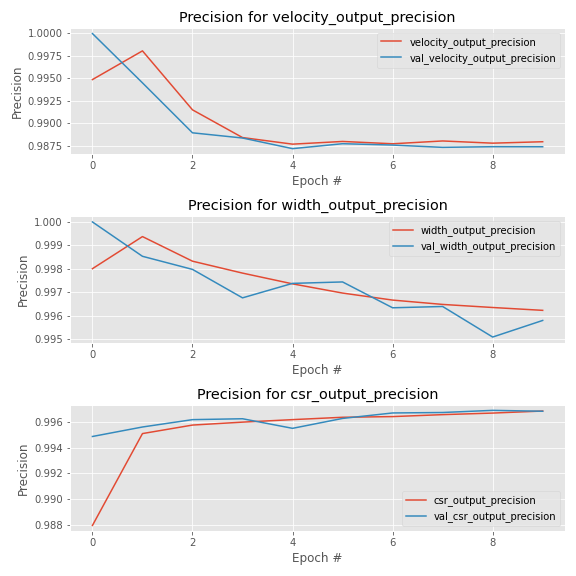
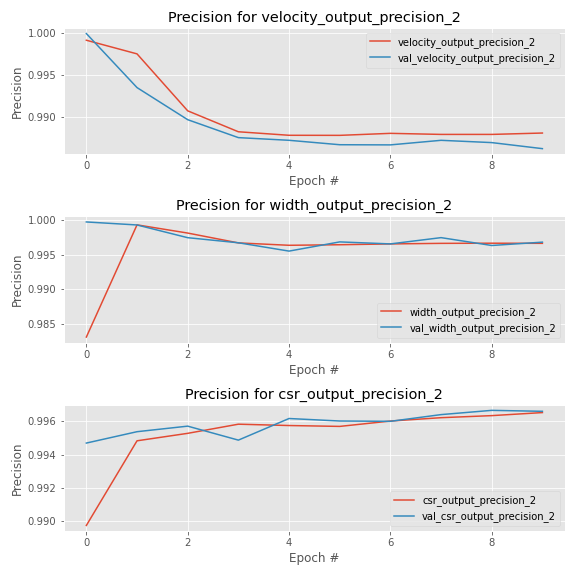
I fixed one bug in the data generation for trining. Also, I am working on the experiment added before about varying the csr

diff --git a/machine_learning_scripts/RadarNet.py b/machine_learning_scripts/RadarNet.py
@@ -17,6 +17,8 @@ from tensorflow.keras.optimizers import Adam
 from tensorflow.keras.callbacks import EarlyStopping
 import tensorflow as tf
 
+
+
     #################Conv1D architecture##################################
     
 def build_conv1D_velocity_branch(inputs, numCategories, finalAct = 'softmax'):
@@ -83,7 +85,7 @@ def model_compile_and_train(device, model, X_train, y_train_cat_vel, y_train_cat
     with tf.device(device):
         #compiling the model
         opt = Adam(lr=1e-4) 
-        EPOCHS = 10
+        EPOCHS = 3
         BS = 512
     
         losses = {"velocity_output":"categorical_crossentropy","width_output":"categorical_crossentropy", "csr_output":"categorical_crossentropy"}
@@ -108,6 +110,8 @@ def model_compile_and_train(device, model, X_train, y_train_cat_vel, y_train_cat
                       callbacks=[custom_early_stopping])
                   
         end = time.time()
+        # Saving the model
+        model.save(device[1:4]  + '_' + str(EPOCHS) + '_' + str(BS)  + 'model.h5')
         elapsed_time = end - start
         print('The trainig time was {} seconds'.format(elapsed_time))    
         return H
@@ -168,57 +172,94 @@ def plot_training( H, directory):
     plt.savefig(directory  + "{}_accs.png".format('train_and_validate'))
     plt.show()
 
-#create a new figure for the Precision
-    precisionNames = ["velocity_output_precision", "width_output_precision", "csr_output_precision"]
-    plt.style.use("ggplot")
-    (fig, ax) = plt.subplots(3, 1, figsize=(8, 8))
+# #create a new figure for the Precision
+#     precisionNames = ["velocity_output_precision_2", "width_output_precision_2", "csr_output_precision_2"]
+#     plt.style.use("ggplot")
+#     (fig, ax) = plt.subplots(3, 1, figsize=(8, 8))
      
-    Precision_t_vector = []
-    Precision_v_vector = []
-    # loop over the accuracy names
-    for (i, l) in enumerate(precisionNames):
+#     Precision_t_vector = []
+#     Precision_v_vector = []
+#     # loop over the accuracy names
+#     for (i, l) in enumerate(precisionNames):
         
-     	# plot the loss for both the training and validation data
-        ax[i].set_title("Precision for {}".format(l))
-        ax[i].set_xlabel("Epoch #")
-        ax[i].set_ylabel("Precision")
-        ax[i].plot(np.arange(0, EPOCHS), H.history[l], label=l)
-        ax[i].plot(np.arange(0, EPOCHS), H.history["val_" + l], label="val_" + l)
-        ax[i].legend()
-        Precision_t_vector.append(H.history[l])
-        Precision_v_vector.append(H.history["val_" + l])
+#      	# plot the loss for both the training and validation data
+#         ax[i].set_title("Precision for {}".format(l))
+#         ax[i].set_xlabel("Epoch #")
+#         ax[i].set_ylabel("Precision")
+#         ax[i].plot(np.arange(0, EPOCHS), H.history[l], label=l)
+#         ax[i].plot(np.arange(0, EPOCHS), H.history["val_" + l], label="val_" + l)
+#         ax[i].legend()
+#         Precision_t_vector.append(H.history[l])
+#         Precision_v_vector.append(H.history["val_" + l])
      
-    # save the accuracies figure
-    plt.tight_layout()
-    plt.savefig(directory + "{}_precision.png".format('train_and_validate'))
-    plt.show()
-# create a new figure for the Recall
-    recallNames = ["velocity_output_recall", "width_output_recall", "csr_output_recall"]
-    plt.style.use("ggplot")
-    (fig, ax) = plt.subplots(3, 1, figsize=(8, 8))
+#     # save the accuracies figure
+#     plt.tight_layout()
+#     plt.savefig(directory + "{}_precision.png".format('train_and_validate'))
+#     plt.show()
+# # create a new figure for the Recall
+#     recallNames = ["velocity_output_recall_2", "width_output_recall_2", "csr_output_recall_2"]
+#     plt.style.use("ggplot")
+#     (fig, ax) = plt.subplots(3, 1, figsize=(8, 8))
      
-    Recall_t_vector = []
-    Recall_v_vector = []
-    # loop over the accuracy names
-    for (i, l) in enumerate(recallNames):
+#     Recall_t_vector = []
+#     Recall_v_vector = []
+#     # loop over the accuracy names
+#     for (i, l) in enumerate(recallNames):
         
-     	# plot the loss for both the training and validation data
-        ax[i].set_title("Recall for {}".format(l))
-        ax[i].set_xlabel("Epoch #")
-        ax[i].set_ylabel("Recall")
-        ax[i].plot(np.arange(0, EPOCHS), H.history[l], label=l)
-        ax[i].plot(np.arange(0, EPOCHS), H.history["val_" + l], label="val_" + l)
-        ax[i].legend()
-        Recall_t_vector.append(H.history[l])
-        Recall_v_vector.append(H.history["val_" + l])
+#      	# plot the loss for both the training and validation data
+#         ax[i].set_title("Recall for {}".format(l))
+#         ax[i].set_xlabel("Epoch #")
+#         ax[i].set_ylabel("Recall")
+#         ax[i].plot(np.arange(0, EPOCHS), H.history[l], label=l)
+#         ax[i].plot(np.arange(0, EPOCHS), H.history["val_" + l], label="val_" + l)
+#         ax[i].legend()
+#         Recall_t_vector.append(H.history[l])
+#         Recall_v_vector.append(H.history["val_" + l])
      
-    # save the accuracies figure
-    plt.tight_layout()
-    plt.savefig(directory + "{}_recall.png".format('train_and_validate'))    
-    plt.show()
+#     # save the accuracies figure
+#     plt.tight_layout()
+#     plt.savefig(directory + "{}_recall.png".format('train_and_validate'))    
+#     plt.show()
     
     #save training and validation loss and accuracy
     # pd.DataFrame( Loss_t_vector).to_csv(directory +'Losstraining' + '.csv')
     # pd.DataFrame( Loss_v_vector).to_csv(directory+'Lossvalidation' + '.csv')
     # pd.DataFrame( Accuracy_t_vector).to_csv(directory+'Accuracytraining' + '.csv')
     # pd.DataFrame( Accuracy_v_vector).to_csv(directory+'Accuracyvalidation' + '.csv')
+    
+def prediction(model, data_PSD, device = 'CPU:/0'):
+    """
+
+    
+    """
+    with tf.device(device):
+        
+        (y_pred_vel, y_pred_sw, y_pred_csr) = model.predict(data_PSD)
+        y_pred_vel = np.argmax(y_pred_vel, axis = 1)
+        y_pred_sw = np.argmax(y_pred_sw, axis = 1)
+        y_pred_csr = np.argmax(y_pred_csr, axis = 1)
+        
+        return y_pred_vel, y_pred_sw, y_pred_csr
+    
+
+
+
+
+
+
+
+
+
+    
+    
+    
+
+
+
+
+
+
+
+
+
+    

diff --git a/varying_the_csr.py b/varying_the_csr.py
@@ -5,12 +5,25 @@ Created on Sun Oct 24 17:24:33 2021
 
 @author: Arturo Collado Rosell
 
-This script is for reproduce one of the experiment of the original paper, the one varying 
+This script is to reproduce one of the experiment of the original paper, the one varying 
 the CSR
 
 """
+import sys
+# insert at 1, 0 is the script path (or '' in REPL)
+sys.path.insert(1, 'machine_learning_scripts/')
+import matplotlib.pyplot as plt
+import RadarNet 
+
 import numpy as np
+import tensorflow as tf
 import synthetic_weather_data_IQ
+
+from tensorflow.compat.v1 import ConfigProto
+from tensorflow.compat.v1 import InteractiveSession 
+config = ConfigProto()
+config.gpu_options.allow_growth = True
+session = InteractiveSession(config=config)
 
 Tu = 0.25e-3
 PRF = 1/Tu
@@ -23,7 +36,7 @@ va = wavelenght*PRF/4
 Sp = 1
 vm = [0.2*va, 0.4*va]
 spectral_w = [3, 5]
-csr = np.linspace(0, 50, 10)
+csr = np.linspace(0, 50, 25)
 Sc = Sp * 10**(csr/10)
 
 radar_mode = 'staggered'
@@ -37,7 +50,7 @@ I = 1
 w =  theta_3dB_acimut * np.pi/180.0 / (M * sum(int_stagg)/len(int_stagg)* Tu)
 clutter_spectral_width = w*wavelenght * np.sqrt(np.log(2.0)) / (2.0 * np.pi * theta_3dB_acimut* np.pi/180.0) # [m/s]
 
-# clutter_power: power of clutter [times]
+#         clutter_power: power of clutter [times]
 #         clutter_s_w : clutter spectrum width [m/s] 
 #         phenom_power: power of phenom [times] 
 #         phenom_vm: phenom mean Doppler velocity [m/s]
@@ -66,6 +79,8 @@ parameters_with_clutter = {    'clutter_s_w': clutter_spectral_width,
 num_samples_uniform = round((M - 1)* sum(int_stagg)/len(int_stagg)) + 1
 window = np.kaiser(num_samples_uniform, 8)
 
+
+###########Data generation#####################################
 L = 1000 # Monte Carlo realization
 N_vel = len(vm)
 N_Sc = len(Sc)
@@ -91,7 +106,52 @@ for i in range(N_vel):
                 psd = psd /np.max(psd)
                 data_PSD[i*N_Sc*N_sw*L + q*N_sw*L + j*L + ind_l,:] = 10*np.log10(psd[0,:])
                 
+################################################################                
                 
-                
-                
+#predictions using the NN
+model = tf.keras.models.load_model('GPU_3_512model.h5')
+vel_pred, sw_pred, csr_pred = RadarNet.prediction(model, data_PSD, device = '/GPU:0')                
+
+try:
+    meta_params = np.load('some_params_to_train.npy')
+    N_vel_grid = int(meta_params[0])
+    N_s_w_grid = int(meta_params[1])
+    N_csr_grid = int(meta_params[2])
+except Exception as e:
+    print(e)  
     
+# Clutter power grid
+csr_g = np.linspace(0, 50, N_csr_grid-1)
+Sc_grid =  Sp * 10.0**(csr_g/10)
+# spectral width grid
+s_width_grid = np.linspace(0.04, 0.2, N_s_w_grid) * va
+# velocity grid
+vel_step = 2.0/N_vel_grid * va
+vel_grid = -np.arange(-va + vel_step/2.0, va , vel_step)    
+
+
+vel_pred = vel_grid[vel_pred]
+sw_pred = s_width_grid[sw_pred] 
+
+vel_NN = np.zeros((N_sw, N_Sc, N_vel))
+std_vel_NN = np.zeros((N_sw, N_Sc, N_vel))
+sw_NN = np.zeros((N_sw, N_Sc, N_vel))
+std_sw_NN = np.zeros((N_sw, N_Sc, N_vel))
+   
+for i in range(N_vel):
+    for q in range(N_Sc):
+        for j in range(N_sw):
+            batch_vel = vel_pred[i*N_Sc*N_sw*L + q*N_sw*L + j*L: i*N_Sc*N_sw*L + q*N_sw*L + (j+1)*L]
+            batch_sw = sw_pred[i*N_Sc*N_sw*L + q*N_sw*L + j*L: i*N_Sc*N_sw*L + q*N_sw*L + (j+1)*L]
+            
+            vel_NN[j,q,i] = np.mean(batch_vel)
+            std_vel_NN[j,q,i] = np.std(batch_vel)
+            sw_NN[j,q,i] = np.mean(batch_sw)
+            std_sw_NN[j,q,i] = np.std(batch_sw)
+            
+###Ploting the results
+fig, ax = plt.subplots()
+ax.plot(csr, vel_NN[0,:,0] - vm[0]*np.ones((N_Sc,)) )
+ax.grid()
+plt.show()
+            

diff --git a/synthetic_weather_data_IQ.py b/synthetic_weather_data_IQ.py
@@ -352,7 +352,7 @@ def synthetic_data_train(M, Fc, Tu = 0.25e-3, theta_3dB_acimut = 1, radar_mode =
     ######### signal parameters intervals ################################## 
     # Clutter power grid
     csr = np.linspace(csr_min, csr_max, N_csr-1)
-    Sc_grid = np.concatenate((np.zeros(8,), 10.0**csr))* Sp
+    Sc_grid = np.concatenate((np.zeros(8,), 10.0**(csr/10)))* Sp
     # spectral width grid
     s_width_grid = np.linspace(s_w_interval_min, s_w_interval_max, N_s_w) * v_a
     # velocity grid
@@ -385,7 +385,7 @@ def synthetic_data_train(M, Fc, Tu = 0.25e-3, theta_3dB_acimut = 1, radar_mode =
     #windows
     window = np.kaiser(num_samples_uniform, 8)
 
-    # looping throw the four parameter grids
+    # looping through the four parameter grids
     for i in progressbar(range(N_vel), 'Computing:') :
         aux = 0
         for s in range(N_Sc):
@@ -416,14 +416,14 @@ def synthetic_data_train(M, Fc, Tu = 0.25e-3, theta_3dB_acimut = 1, radar_mode =
                         ##PSD estimation
                         psd = PSD_estimation(data_w, w = window, PRF = 1/Tu)
                         psd = psd /np.max(psd)
-                        data_PSD[i*N_Sc*N_snr*N_s_w*L + s*N_snr*N_s_w*L + n*N_s_w*L + q*L, :num_samples_uniform] = 10*np.log10(psd[0,:])
+                        data_PSD[i*N_Sc*N_snr*N_s_w*L + s*N_snr*N_s_w*L + n*N_s_w*L + q*L + j, :num_samples_uniform] = 10*np.log10(psd[0,:])
                         if Sc_grid[s] == 0:
-                            data_PSD[i*N_Sc*N_snr*N_s_w*L + s*N_snr*N_s_w*L + n*N_s_w*L + q*L, num_samples_uniform] = 0
+                            data_PSD[i*N_Sc*N_snr*N_s_w*L + s*N_snr*N_s_w*L + n*N_s_w*L + q*L + j, num_samples_uniform] = 0
                         else:
-                            data_PSD[i*N_Sc*N_snr*N_s_w*L + s*N_snr*N_s_w*L + n*N_s_w*L + q*L, num_samples_uniform] = s - aux + 1
+                            data_PSD[i*N_Sc*N_snr*N_s_w*L + s*N_snr*N_s_w*L + n*N_s_w*L + q*L + j, num_samples_uniform] = s - aux + 1
                         
-                        data_PSD[i*N_Sc*N_snr*N_s_w*L + s*N_snr*N_s_w*L + n*N_s_w*L + q*L, num_samples_uniform+1] = i
-                        data_PSD[i*N_Sc*N_snr*N_s_w*L + s*N_snr*N_s_w*L + n*N_s_w*L + q*L, num_samples_uniform+2] = q
+                        data_PSD[i*N_Sc*N_snr*N_s_w*L + s*N_snr*N_s_w*L + n*N_s_w*L + q*L + j, num_samples_uniform+1] = i
+                        data_PSD[i*N_Sc*N_snr*N_s_w*L + s*N_snr*N_s_w*L + n*N_s_w*L + q*L + j, num_samples_uniform+2] = q
                                  
                         
     return data_PSD, N_vel, N_s_w, N_csr, radar_mode                    

diff --git a/test.py b/test.py
@@ -22,7 +22,7 @@ parameters_phenom = {'phenom_power':1, 'phenom_vm':10, 'phenom_s_w':2,
               'noise_power': 1.0e-5,
               'radar_mode':'staggered'}   
 
-parameters = parameters_phenom
+parameters = parameters_with_clutter
 #data generation
 data, time = synthetic_weather_data_IQ.synthetic_IQ_data(**parameters)
 
